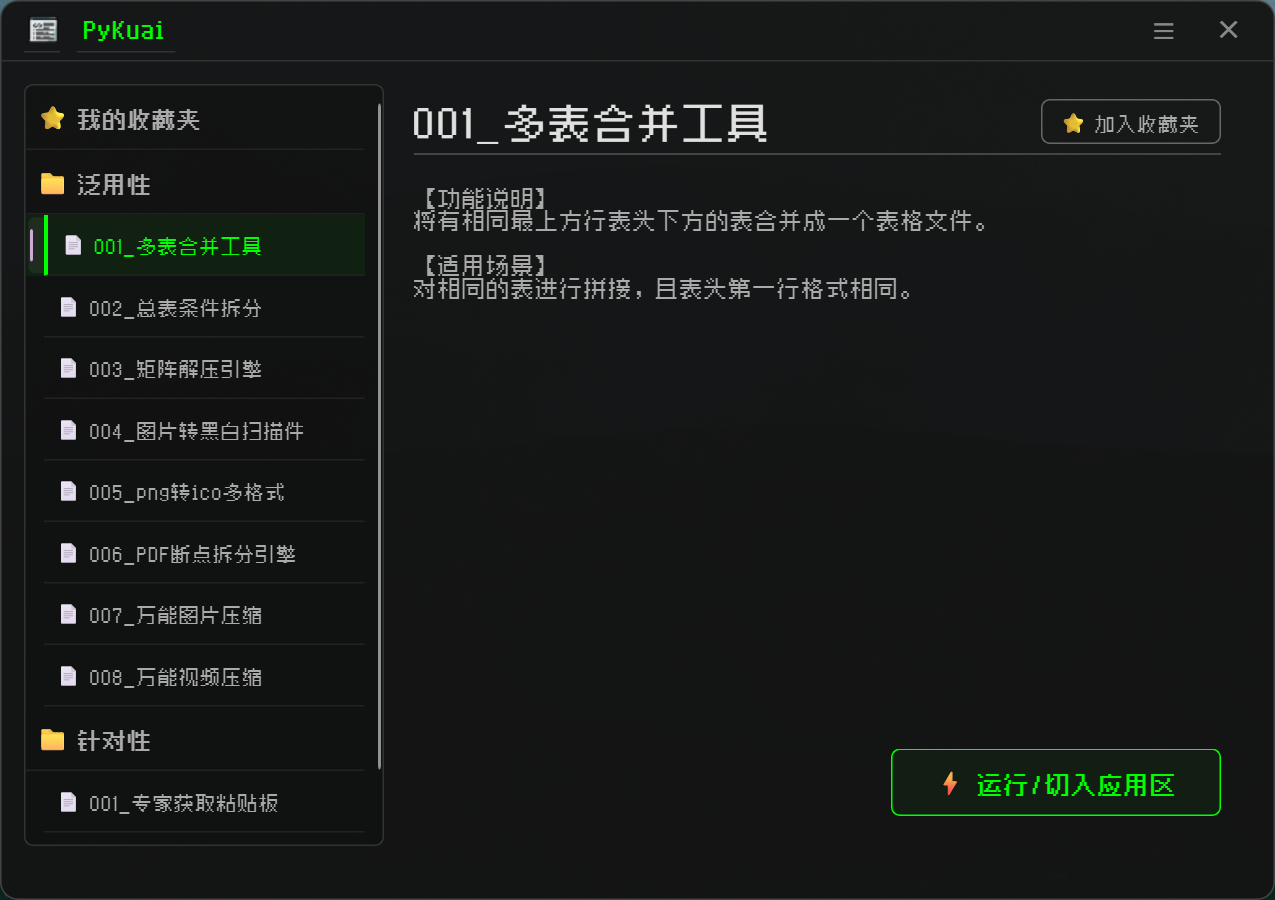
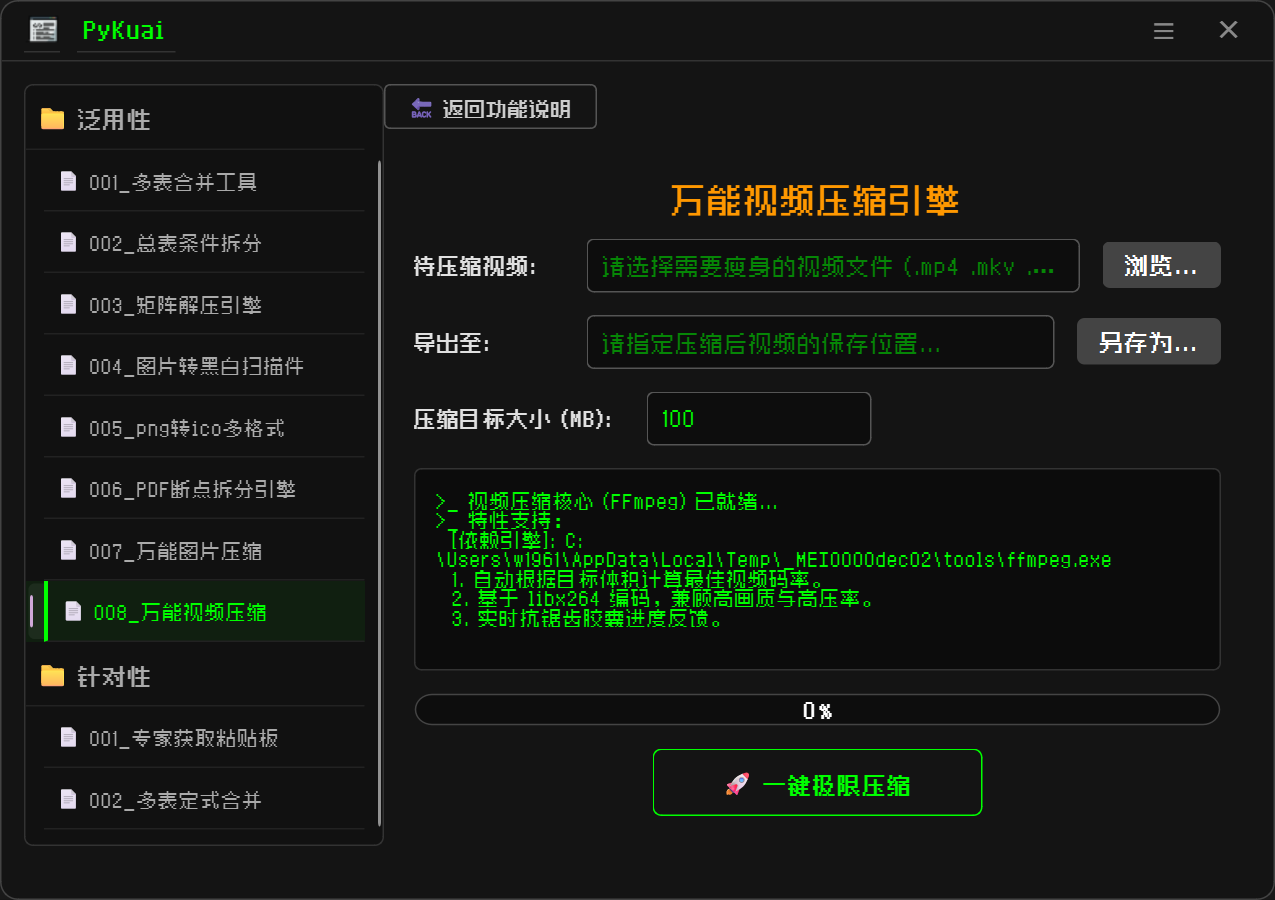
920

diff --git a/PyKuai/PyKuai.html b/PyKuai/PyKuai.html
@@ -470,7 +470,7 @@
         <!-- 下载执行区 -->
         <section class="download-wrapper">
             <!-- 国内加速直链 -->
-            <a href="https://ghproxy.net/https://github.com/GallantTarry/TuKuai/releases/download/20260907/PyKuaiv1.2.4.exe" class="download-btn">>> PyKuai (v1.2.4) <<</a>
+            <a href="https://ghproxy.net/https://github.com/GallantTarry/TuKuai/releases/download/20260907/PyKuaiv1.2.5.exe" class="download-btn">>> PyKuai (v1.2.5) <<</a>
         </section>
 
         <!-- 打字机效果说明区 -->

diff --git a/PyKuai/docs/PyKuai使用说明书.md b/PyKuai/docs/PyKuai使用说明书.md
@@ -47,3 +47,15 @@
 > 本软件完全基于 Python 代码编写，服务于桌面端未接触过 Python 的使用者。为确保您能先确认是否需要再进行下载，我将功能写在上方，更新日志写在下方。
 > 当然，我的测试时间有限，如有重大 Bug 或具体的业务需求，欢迎通过我主页点击我的头像给我发送具体的反馈和新的需求。
 > 再次感谢您的使用和支持！
+
+---
+### 📌 
+
+* **版本号**：v1.2.5
+* **发布日期**：2026/09/20
+
+> 新增视频获取脚本，可以输入网页链接获取音频与视频。
+> 修复靛蓝色不和谐色为 color: #FF9800。
+> 修复多开报错没有图标的先后顺序出错bug。
+
+
